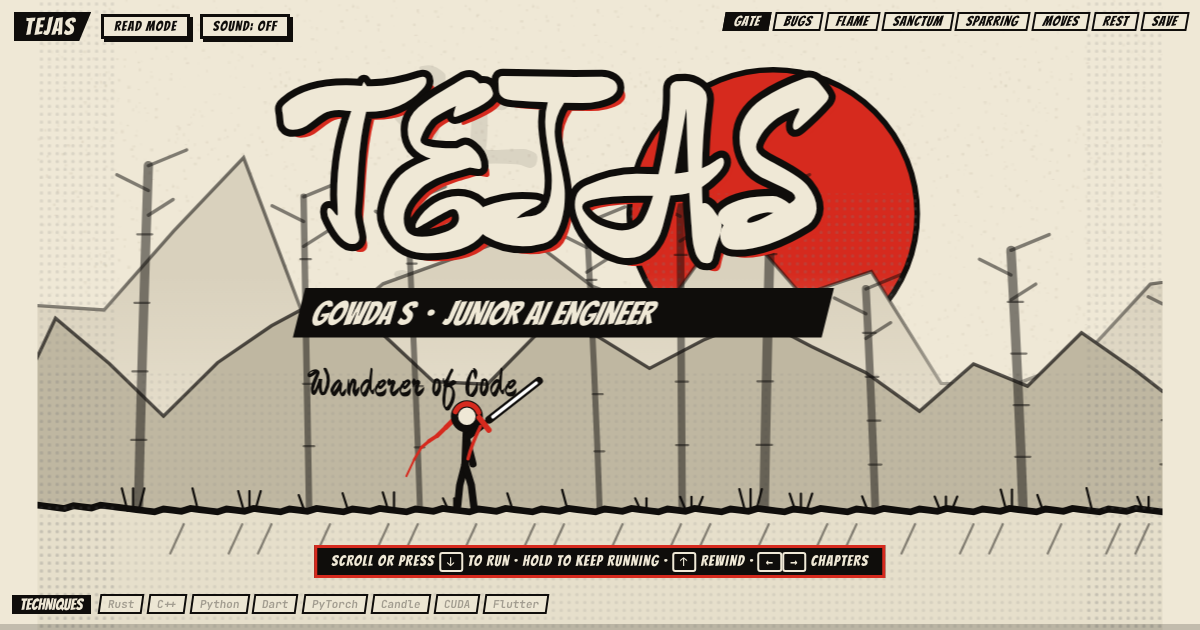
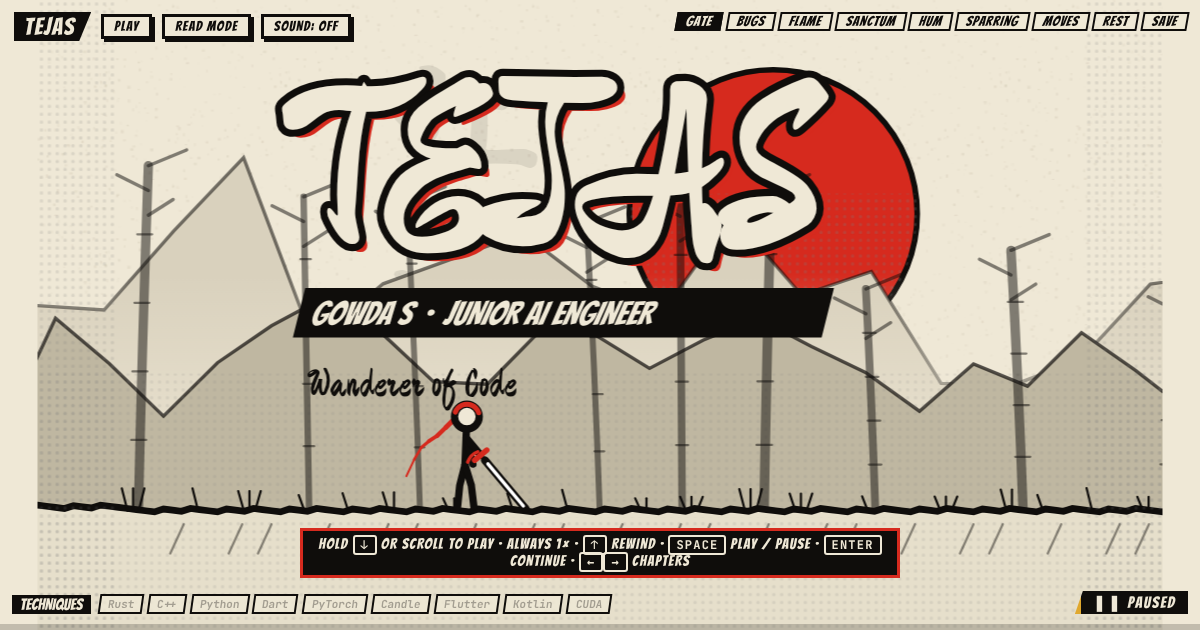
Add reading pauses and relax the hero's idle sword pose
Reading pauses
- At dense moments (intro captions, each flagship card, the sparring list,
  the move list, each rest-stop dialogue line) the film holds at 1x until
  you have had time to read: about 2s plus 0.04s per character, shown as a
  countdown badge. Holding or scrolling forward does not skip the pause;
  Enter, tapping the badge or autoplay continues. Rewinding leaves it.
- Rest-stop dialogue timing now follows each line's length so no line
  fades out while it is still typing.
- Buttons blur after a click so Enter and Space do not re-press them.
- Slightly larger card text.

Hero
- The sword rests low and relaxed instead of held up in the air; it trails
  behind while running.

Claude-Session: https://claude.ai/code/session_019geRCqshGj3etQ9FAGBaPG

diff --git a/src/components/ScrollStage.tsx b/src/components/ScrollStage.tsx
@@ -27,6 +27,28 @@ const CHAPTERS: { label: string; at: number }[] = [
 const win = (from: number, to?: number): { 'data-in': number; 'data-out'?: number } => ({ 'data-in': from, ...(to !== undefined ? { 'data-out': to } : {}) });
 const clamp = (v: number, a: number, b: number) => Math.max(a, Math.min(b, v));
 const restBeats = SCRIPT.restBeat;
+/** Mouse and touch clicks should not leave a button focused, or Enter / Space would press it again. */
+const blurAfter = (e: { currentTarget: HTMLElement }) => e.currentTarget.blur();
+
+/** Reading pauses. The film holds here at 1x (it never slows down), long enough to read what is on screen. */
+type Hold = { tau: number; sec: number };
+const readSec = (chars: number) => clamp(2 + chars * 0.04, 2.4, 16);
+const HOLDS: Hold[] = [
+  { tau: M.run1 + 1.9, sec: 2.2 },
+  { tau: M.run1 + 4.7, sec: 2.2 },
+  { tau: M.run1 + 7.6, sec: 2.6 },
+  ...featured.map((f): Hold => ({
+    tau: (f.id === 'flame' ? M.flameDie : f.id === 'sanctum' ? M.sanctumDie : M.humDie) + 1.6,
+    sec: readSec(f.kicker.length + f.blurb.length + f.stack.join(' ').length),
+  })),
+  { tau: M.sparDie + 1.0, sec: readSec(otherWork.map((w) => w.name + w.tags.join(' ')).join(' ').length) },
+  { tau: M.kata + 1.2, sec: readSec(toolbox.flatMap((g) => g.items.map((i) => i.name + i.note)).join(' ').length) },
+  ...background.map((b, i): Hold => {
+    const len = `${b.title}, ${b.place}. ${b.note}`.length;
+    return { tau: restBeats[i] + 0.3 + len / 38 + 0.25, sec: readSec(len) };
+  }),
+].sort((a, b) => a.tau - b.tau);
+const HOLD_EPS = HOLDS.map((h) => toEps(h.tau));
 
 /** When each flagship card is on screen (script seconds). */
 const CARD_WINDOW: Record<string, [number, number]> = {
@@ -42,9 +64,9 @@ const ScrollStage = ({ onRead }: Props) => {
   const cv = useRef<HTMLCanvasElement>(null);
   const bar = useRef<HTMLDivElement>(null);
   const hint = useRef<HTMLDivElement>(null);
-  const statusEl = useRef<HTMLDivElement>(null);
+  const statusEl = useRef<HTMLButtonElement>(null);
   const wipe = useRef<HTMLDivElement>(null);
-  const api = useRef<{ jump: (tau: number) => void; toggle: () => void }>({ jump: () => undefined, toggle: () => undefined });
+  const api = useRef<{ jump: (tau: number) => void; toggle: () => void; cont: () => void }>({ jump: () => undefined, toggle: () => undefined, cont: () => undefined });
   const [snd, setSnd] = useState(false);
   const [auto, setAuto] = useState(false);
 
@@ -106,6 +128,9 @@ const ScrollStage = ({ onRead }: Props) => {
     let timedUntil = 0;
     const kb = { down: false, up: false };
     let lastStatus = '';
+    let hold = -1; // index of the reading pause we are sitting in, or -1
+    let holdStart = 0;
+    const released = new Set<number>();
 
     const chapIndex = () => {
       let idx = 0;
@@ -117,6 +142,8 @@ const ScrollStage = ({ onRead }: Props) => {
       prevCur = cur;
       autoPlay = false;
       setAuto(false);
+      hold = -1;
+      released.clear();
       const w = wipe.current;
       if (w) {
         w.classList.remove('go');
@@ -130,7 +157,13 @@ const ScrollStage = ({ onRead }: Props) => {
       autoPlay = !autoPlay;
       setAuto(autoPlay);
     };
-    api.current = { jump: jumpTo, toggle: toggleAuto };
+    const releaseHold = () => {
+      if (hold === -1) return false;
+      released.add(hold);
+      hold = -1;
+      return true;
+    };
+    api.current = { jump: jumpTo, toggle: toggleAuto, cont: () => { if (!releaseHold()) toggleAuto(); } };
 
     const dialogOpen = () => !!document.querySelector('[role="dialog"]');
     const typing = (el: EventTarget | null) => {
@@ -152,6 +185,11 @@ const ScrollStage = ({ onRead }: Props) => {
       else if (k === 'ArrowLeft') { e.preventDefault(); if (!e.repeat) goChapter(chapIndex() - 1); }
       else if (k === 'Home') { e.preventDefault(); goChapter(0); }
       else if (k === 'End') { e.preventDefault(); goChapter(CHAPTERS.length - 1); }
+      else if (k === 'Enter') {
+        if ((e.target as HTMLElement | null)?.closest?.('a,button')) return;
+        e.preventDefault();
+        releaseHold();
+      }
       else if (k === ' ') {
         if ((e.target as HTMLElement | null)?.closest?.('a,button')) return;
         e.preventDefault();
@@ -236,7 +274,24 @@ const ScrollStage = ({ onRead }: Props) => {
       const dir = kbDir !== 0 ? kbDir : timedDir !== 0 ? timedDir : autoPlay ? 1 : 0;
 
       prevCur = cur;
-      if (dir !== 0) cur = clamp(cur + dir * dt, 0, TOTAL_EPS);
+      // reading pauses: forward motion stops at a hold until its reading time is up
+      for (const i of Array.from(released)) if (cur < HOLD_EPS[i] - 0.3) released.delete(i);
+      let next = dir !== 0 ? clamp(cur + dir * dt, 0, TOTAL_EPS) : cur;
+      if (hold === -1 && dir > 0) {
+        for (let i = 0; i < HOLDS.length; i++) {
+          if (!released.has(i) && cur < HOLD_EPS[i] - 1e-6 && next >= HOLD_EPS[i]) { hold = i; holdStart = now; next = HOLD_EPS[i]; break; }
+        }
+      }
+      let remaining = 0;
+      if (hold !== -1) {
+        if (dir < 0) { hold = -1; }
+        else {
+          next = HOLD_EPS[hold];
+          remaining = HOLDS[hold].sec - (now - holdStart) / 1000;
+          if (remaining <= 0 && dir > 0) { released.add(hold); hold = -1; next = clamp(cur + dt, 0, TOTAL_EPS); }
+        }
+      }
+      cur = next;
       if (cur >= TOTAL_EPS && autoPlay) { autoPlay = false; setAuto(false); }
 
       const info = renderFrame(ctx, canvas, cur, scale, now / 1000, view);
@@ -270,12 +325,18 @@ const ScrollStage = ({ onRead }: Props) => {
       }
       if (bar.current) bar.current.style.transform = `scaleX(${clamp(cur / TOTAL_EPS, 0, 1)})`;
       if (hint.current) hint.current.style.opacity = tau < M.run1 + 0.6 ? '1' : '0';
-      const status = cur >= TOTAL_EPS ? 'THE END' : dir > 0 ? '▶ PLAYING  1×' : dir < 0 ? '◀ REWIND  1×' : '❚❚ PAUSED';
+      const reading = hold !== -1;
+      const status = cur >= TOTAL_EPS
+        ? 'THE END'
+        : reading
+          ? remaining > 0 ? `❚❚ READ · ${Math.ceil(remaining)}s · TAP TO CONTINUE` : '▶ READY · PRESS ↓ OR TAP'
+          : dir > 0 ? '▶ PLAYING  1×' : dir < 0 ? '◀ REWIND  1×' : '❚❚ PAUSED';
       if (status !== lastStatus && statusEl.current) {
         lastStatus = status;
         statusEl.current.textContent = status;
-        statusEl.current.dataset.state = dir > 0 ? 'play' : dir < 0 ? 'back' : 'pause';
+        statusEl.current.dataset.state = reading ? 'read' : dir > 0 ? 'play' : dir < 0 ? 'back' : 'pause';
       }
+      if (reading !== root.classList.contains('reading')) root.classList.toggle('reading', reading);
     };
     raf = requestAnimationFrame(frame);
 
@@ -305,16 +366,16 @@ const ScrollStage = ({ onRead }: Props) => {
         {/* ---------- HUD ---------- */}
         <div className="hud-top">
           <div className="hud-name">TEJAS</div>
-          <button type="button" className="mini" onClick={() => api.current.toggle()} aria-pressed={auto}>{auto ? 'PAUSE' : 'PLAY'}</button>
-          <button type="button" className="mini" onClick={onRead}>READ MODE</button>
-          <button type="button" className="mini" onClick={toggleSound} aria-pressed={snd}>SOUND: {snd ? 'ON' : 'OFF'}</button>
+          <button type="button" className="mini" onClick={(e) => { api.current.toggle(); blurAfter(e); }} aria-pressed={auto}>{auto ? 'PAUSE' : 'PLAY'}</button>
+          <button type="button" className="mini" onClick={(e) => { blurAfter(e); onRead(); }}>READ MODE</button>
+          <button type="button" className="mini" onClick={(e) => { toggleSound(); blurAfter(e); }} aria-pressed={snd}>SOUND: {snd ? 'ON' : 'OFF'}</button>
         </div>
         <nav className="chap" aria-label="Chapters">
           {CHAPTERS.map((c, i) => (
-            <button key={c.label} type="button" data-chap={i} onClick={() => api.current.jump(c.at)}>{c.label}</button>
+            <button key={c.label} type="button" data-chap={i} onClick={(e) => { api.current.jump(c.at); blurAfter(e); }}>{c.label}</button>
           ))}
         </nav>
-        <div ref={statusEl} className="status" aria-live="off" data-state="pause">❚❚ PAUSED</div>
+        <button type="button" ref={statusEl} className="status" aria-live="off" data-state="pause" onClick={(e) => { api.current.cont(); blurAfter(e); }}>❚❚ PAUSED</button>
         <div className="progress" aria-hidden="true"><div ref={bar} /></div>
         <div className="skills" aria-label="Techniques collected">
           <b>TECHNIQUES</b>
@@ -325,8 +386,8 @@ const ScrollStage = ({ onRead }: Props) => {
 
         {/* ---------- scene 0: gate ---------- */}
         <div className="cue" ref={hint} aria-hidden="true">
-          <span className="kb-only">HOLD <kbd>↓</kbd> OR SCROLL TO PLAY · ALWAYS 1× · <kbd>↑</kbd> REWIND · <kbd>SPACE</kbd> PLAY / PAUSE · <kbd>←</kbd><kbd>→</kbd> CHAPTERS</span>
-          <span className="touch-only">SWIPE UP OR TAP PLAY · SWIPE DOWN TO REWIND · ALWAYS 1× · TAP A CHAPTER TO SKIP</span>
+          <span className="kb-only">HOLD <kbd>↓</kbd> OR SCROLL TO PLAY · ALWAYS 1× · <kbd>↑</kbd> REWIND · <kbd>SPACE</kbd> PLAY / PAUSE · <kbd>ENTER</kbd> CONTINUE · <kbd>←</kbd><kbd>→</kbd> CHAPTERS</span>
+          <span className="touch-only">SWIPE UP OR TAP PLAY · SWIPE DOWN TO REWIND · ALWAYS 1× · IT PAUSES SO YOU CAN READ · TAP A CHAPTER TO SKIP</span>
         </div>
 
         {/* ---------- captions ---------- */}

diff --git a/src/index.css b/src/index.css
@@ -175,9 +175,12 @@ html.film-lock, html.film-lock body { overflow: hidden; height: 100%; overscroll
 .card { touch-action: pan-y; overscroll-behavior: contain; }
 .stage-canvas { cursor: pointer; }
 
-.status { position: absolute; right: 12px; bottom: 16px; z-index: 5; font: 400 16px var(--sfx); letter-spacing: .1em; background: #0f0d0b; color: #efe8d6; padding: 2px 12px; clip-path: polygon(8px 0, 100% 0, 100% 100%, 0 100%); border-left: 6px solid #e0a82e; }
+.status { border: 0; cursor: pointer; position: absolute; right: 12px; bottom: 16px; z-index: 5; font: 400 16px var(--sfx); letter-spacing: .1em; background: #0f0d0b; color: #efe8d6; padding: 2px 12px; clip-path: polygon(8px 0, 100% 0, 100% 100%, 0 100%); border-left: 6px solid #e0a82e; }
 .status[data-state='play'] { border-left-color: #3ef2d0; }
 .status[data-state='back'] { border-left-color: #d62a1e; }
+.status[data-state='read'] { border-left-color: #e0a82e; background: #d62a1e; color: #fff; animation: nudgeBg 1.2s ease-in-out infinite alternate; }
+@keyframes nudgeBg { to { background: #b81f15; } }
+.stage.reading .stage-canvas { cursor: default; }
 .wipe { position: absolute; inset: 0; z-index: 30; pointer-events: none; overflow: hidden; }
 .wipe::before { content: ''; position: absolute; top: -10%; bottom: -10%; left: -40%; width: 40%; background: #0f0d0b; border-right: 10px solid #d62a1e; transform: skewX(-18deg) translateX(-130%); }
 .wipe.go::before { animation: wipe .5s cubic-bezier(.7, 0, .2, 1); }
@@ -219,7 +222,7 @@ html.film-lock, html.film-lock body { overflow: hidden; height: 100%; overscroll
 .card.side.left { right: auto; left: 3vw; top: 74px; margin-top: 0; max-height: 62vh; }
 .card .k { font: 400 15px var(--sfx); letter-spacing: .14em; color: #d62a1e; }
 .card h2 { margin: 0 0 4px; font: 400 clamp(40px, 6vw, 72px)/.9 var(--brush); letter-spacing: 0; }
-.card p { margin: 0 0 10px; font-size: 12px; line-height: 1.55; }
+.card p { margin: 0 0 10px; font-size: 13px; line-height: 1.6; }
 .card .kk { font: 700 12px var(--mono); }
 .card .chips { display: flex; gap: 5px; flex-wrap: wrap; margin: 4px 0 12px; }
 .card .chips span { font: 700 10px var(--mono); background: #0f0d0b; color: #efe8d6; padding: 2px 8px; transform: skewX(-10deg); }

diff --git a/src/game/script.ts b/src/game/script.ts
@@ -7,6 +7,8 @@
  * exact right frame.
  */
 
+import { background } from '../data/content';
+
 export const W = 1000;
 export const H = 560;
 export const GY = 452; // ground line
@@ -344,10 +346,16 @@ function build() {
   mark('rest');
   chapter('REST STOP', '息', t);
   const sitFrom = t;
-  idle(12);
+  // each dialogue line gets time to type out (38 chars/s) plus a cushion after the reading pause
+  const restBeat: number[] = [];
+  let off = 0.8;
+  for (const b of background) {
+    restBeat.push(sitFrom + off);
+    off += 0.5 + `${b.title}, ${b.place}. ${b.note}`.length / 38 + 1.4;
+  }
+  idle(off + 0.2);
   sits.push({ from: sitFrom, to: t });
   mark('restEnd');
-  const restBeat = [sitFrom + 0.8, sitFrom + 4.6, sitFrom + 8.4];
 
   /* ---------- 7. Save point: contact ---------- */
   mark('toSave');

diff --git a/src/game/render.ts b/src/game/render.ts
@@ -129,7 +129,7 @@ function fig(c: CanvasRenderingContext2D, o: FigOpts, P: Pal): [number, number] 
     const e = ease(clamp(o.atk.p, 0, 1));
     sa = o.atk.step === 1 ? lerp(-2.4, 0.9, e) : o.atk.step === 2 ? lerp(1.0, -2.2, e) : lerp(-3.3, 3.0, e);
   } else if (sit) sa = -1.5;
-  else sa = o.air ? -0.2 : run ? -0.3 : -0.7 + Math.sin(o.idle * 2.2) * 0.05;
+  else sa = o.air ? 0.1 : run ? 0.55 : 0.85 + Math.sin(o.idle * 2.2) * 0.04;
   const len = o.zombie ? 26 : 20;
   const hxn = shx + Math.cos(sa) * len;
   const hyn = shy + Math.sin(sa) * len;
